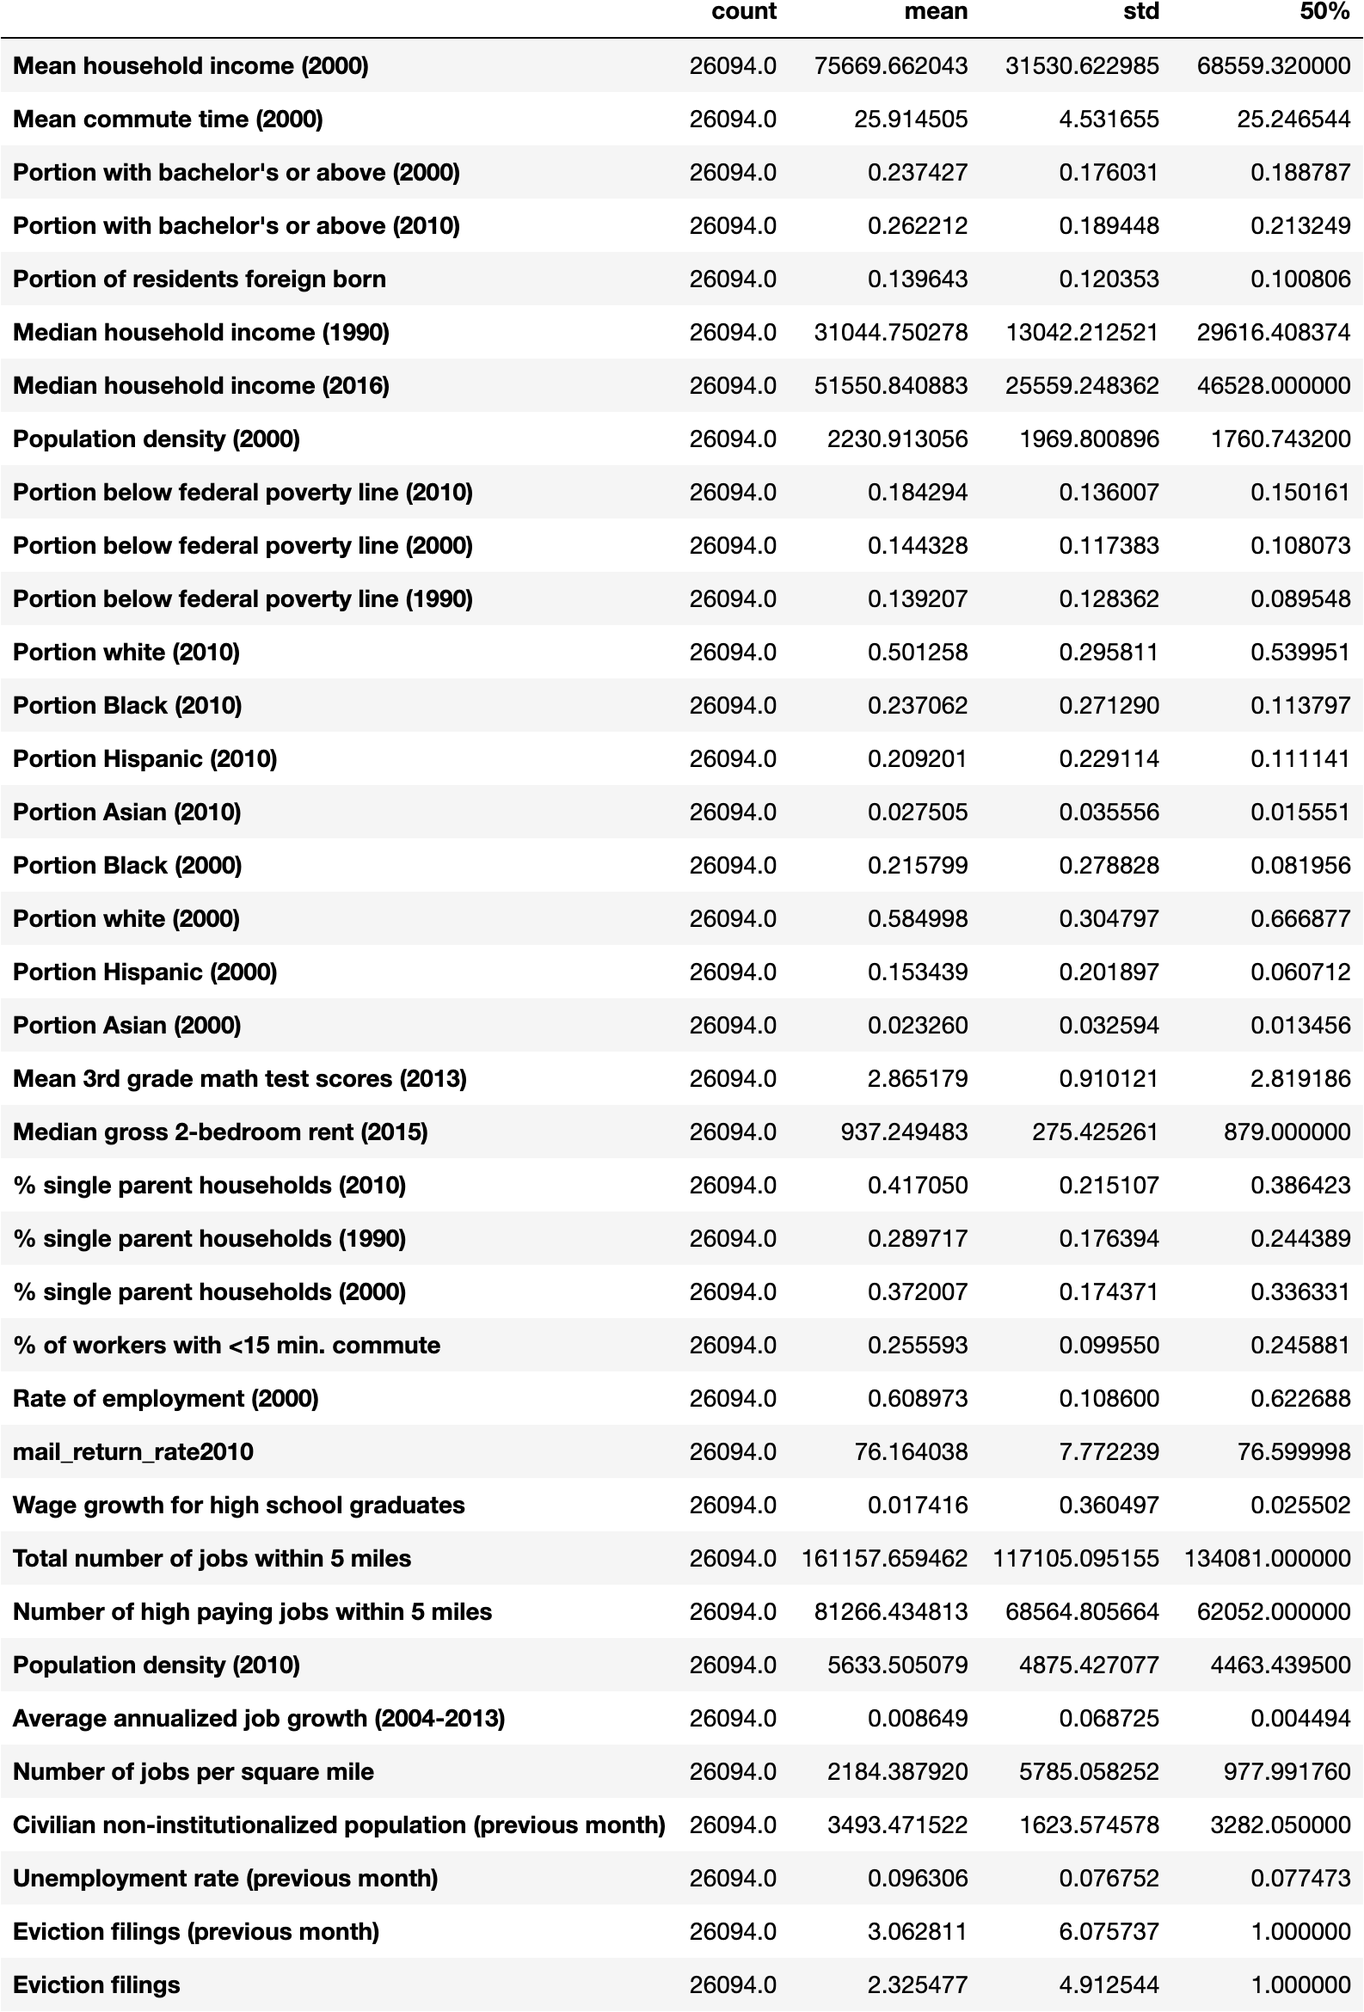
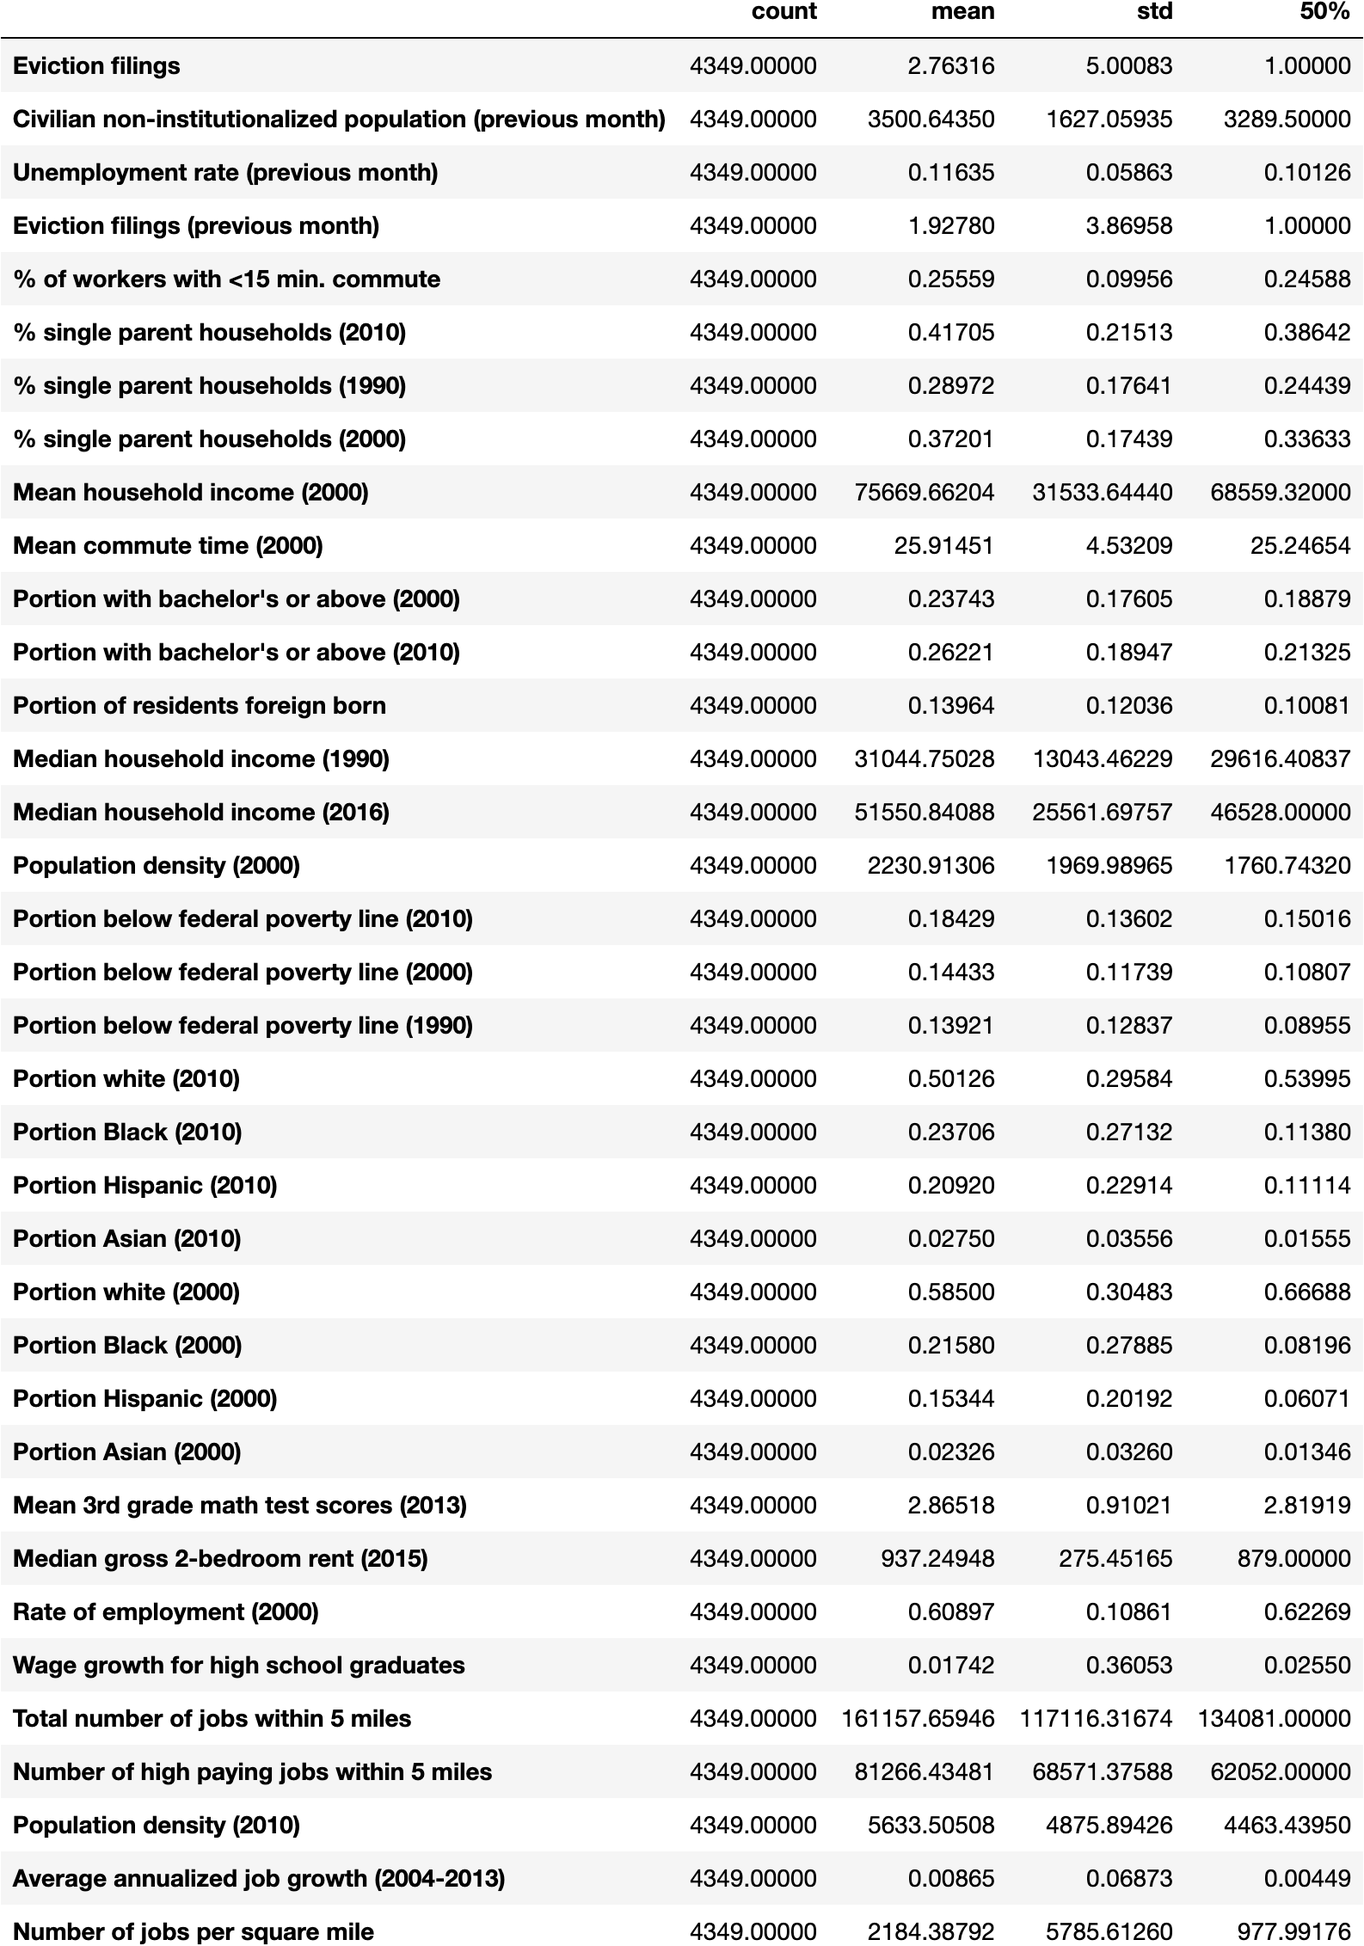
Made summ. stats more readable, added coefficient density plots

Changed region(s): [[0.0, 0.0, 0.9887, 1.0]]

diff --git a/code/fepredictionmodel.py b/code/fepredictionmodel.py
@@ -7,6 +7,7 @@ import pandas as pd
 from matplotlib import pyplot as plt
 from sklearn.linear_model import Ridge
 import dataframe_image as dfi
+from sklearn.metrics import r2_score
 
 """
 Runs fixed-effects regression models
@@ -18,7 +19,8 @@ class FEPredictionModel:
     Initialize a model.
     """
 
-    def __init__(self, datafile, graph_output, table_output, non_numeric_features, model_name):
+    def __init__(self, datafile, graph_output, table_output, non_numeric_features, model_name, float_format='{:.5f}'):
+        pd.options.display.float_format = float_format.format
         self.df = pd.read_csv(datafile)
         self.graph_output = graph_output
         self.table_output = table_output
@@ -30,6 +32,8 @@ class FEPredictionModel:
         self.y_test = None
         self.optimal_coefficients = None
         self.optimal_mse = None
+        self.optimal_r_squared = None
+        self.output_table = None
 
         self.non_numeric_features = non_numeric_features
         self.numeric_features = None
@@ -70,12 +74,13 @@ class FEPredictionModel:
     """
     Run fixed-effects ridge regression and produce summary statistics. 
     """
-    def run_ridge(self, fixed_effects_var, exclude_variables=None):
+
+    def run_ridge(self, fixed_effects_var, exclude_variables=None, include_dummies_in_table=False):
 
         # generate one dummy variable for each entity except for one
-        train_dummies = pd.get_dummies(self.x_train[fixed_effects_var], drop_first=True)
+        train_dummies = pd.get_dummies(self.x_train[fixed_effects_var], drop_first=True, prefix=fixed_effects_var, prefix_sep="_")
         self.x_train = pd.concat([self.x_train, train_dummies], axis=1)
-        test_dummies = pd.get_dummies(self.x_test[fixed_effects_var], drop_first=True)
+        test_dummies = pd.get_dummies(self.x_test[fixed_effects_var], drop_first=True, prefix=fixed_effects_var, prefix_sep="_")
         self.x_test = pd.concat([self.x_test, test_dummies], axis=1)
         self.fe_dummies = train_dummies.columns
 
@@ -92,13 +97,15 @@ class FEPredictionModel:
         alphas = np.linspace(0.01, 5, num=51)
         errors = []
         coefficients = []
+        r_squareds = []
         for alpha in alphas:
-            ridge = Ridge(alpha=alpha, fit_intercept=True, normalize=True, random_state=7)
+            ridge = Ridge(alpha=alpha, normalize=True, random_state=7)
             ridge.fit(self.x_train, self.y_train)
             predicted_y = ridge.predict(self.x_test)
             predicted_y = np.where(predicted_y < 0, 0, predicted_y)
             errors.append(np.mean((predicted_y - self.y_test) ** 2))
             coefficients.append(ridge.coef_)
+            r_squareds.append(r2_score(self.y_test, predicted_y))
 
         # plot MSE for different values of alpha
         figure1 = plt.figure()
@@ -108,19 +115,43 @@ class FEPredictionModel:
         plt.plot(alphas, errors, '.')
         figure1.savefig(os.path.join(self.graph_output, self.model_name + '_mse_plot.png'))
 
-        # store optimal coefficients and prediction error
-        self.optimal_mse = np.min(errors)
+        # store optimal coefficients, prediction error, R2
         self.optimal_coefficients = coefficients[np.argmin(errors)]
-        # self.optimal_coefficients = pd.DataFrame(self.optimal_coefficients, columns=self.x_train.columns)
+        self.optimal_mse = np.min(errors)
+        self.optimal_r_squared = r_squareds[np.argmin(errors)]
+        self.output_table = pd.DataFrame({"Variable/Metric": self.x_train.columns,
+                                          "Coefficient/Value": self.optimal_coefficients})
+
+        # produce pdf of coefficient values
+        figure = plt.figure()
+        self.output_table.loc[self.output_table["Variable/Metric"].isin(self.fe_dummies)]['Coefficient/Value'].plot.kde(
+            title="Distribution of coefficients on " + fixed_effects_var + " dummies")
+        plt.xlabel("Coefficient value")
+        plt.xlim(-3, 3)
+        figure.savefig(os.path.join(self.graph_output, self.model_name + "_coefficients_distribution.png"))
+
+        # drop rows corresponding to dummy variable coefficients
+        self.output_table = self.output_table.drop(self.output_table.loc[self.output_table['Variable/Metric'].isin(self.fe_dummies)].index)
+
+        # append MSE and R^2 to the output table
+        self.output_table = self.output_table.append({'Variable/Metric': "MSE",
+                                                      'Coefficient/Value': self.optimal_mse}, ignore_index=True)
+        self.output_table = self.output_table.append({'Variable/Metric': "R^2",
+                                                      'Coefficient/Value': self.optimal_r_squared}, ignore_index=True)
+
+        # save output table as PNG
+        self.output_table.set_index('Variable/Metric')
+        dfi.export(self.output_table, os.path.join(self.table_output, self.model_name + "_regression_output.png"))
 
     """
     Produces a KDE of the distribution of a certain variable.
     """
+
     def get_kde_plot(self, column, plot_title, xlabel):
         figure1 = plt.figure(1)
         # kde plot for training dataset
         pd.concat([self.x_train, self.y_train], axis=1)[column].plot.kde(title=plot_title,
-                                                                               label='Training dataset')
+                                                                         label='Training dataset')
         # kde plot for testing dataset
         pd.concat([self.x_test, self.y_test], axis=1)[column].plot.kde(label='Testing dataset')
         figure1.legend(loc='center')
@@ -131,18 +162,26 @@ class FEPredictionModel:
     """
     Produce a table of summary statistics for select variables in PNG format.
     """
+
     def get_summary_statistics(self, variables, labels):
-        rename_dict = {}  # create dictionary to rename the columns
-        for variable, label in zip(variables, labels):
-            rename_dict[variable] = label
-        training_statistics = pd.concat([self.x_train[self.numeric_features], self.y_train], axis=1).describe()
-        testing_statistics = pd.concat([self.x_test[self.numeric_features], self.y_test], axis=1).describe()
-        training_statistics = training_statistics.rename(columns=rename_dict)
-        testing_statistics = testing_statistics.rename(columns=rename_dict)
 
-        # change order of variables
-        training_statistics = training_statistics[labels]
-        training_statistics = testing_statistics[labels]
+        training_statistics = pd.concat([self.x_train[self.numeric_features], self.y_train], axis=1)[variables].describe()
+        testing_statistics = pd.concat([self.x_test[self.numeric_features], self.y_test], axis=1)[variables].describe()
 
-        dfi.export(training_statistics.transpose()[['count', 'mean', 'std', '50%']], os.path.join(self.table_output, 'train_summary_stats.png'))
-        dfi.export(testing_statistics.transpose()[['count', 'mean', 'std', '50%']], os.path.join(self.table_output, 'test_summary_stats.png'))
+        # transpose summary tables and add variable labels
+        training_summary = training_statistics.transpose()
+        testing_summary = testing_statistics.transpose()
+
+        print(training_summary.index)
+        print(labels)
+
+        training_summary['Label'] = pd.Series(labels, index=training_summary.index)
+        testing_summary['Label'] = pd.Series(labels, index=training_summary.index)
+
+
+        print(pd.Series(labels))
+        print(training_summary['Label'])
+        print(testing_summary['Label'])
+
+        dfi.export(training_summary[['Label', 'count', 'mean', 'std', '50%']], os.path.join(self.table_output, 'train_summary_stats.png'))
+        dfi.export(testing_summary[['Label', 'count', 'mean', 'std', '50%']], os.path.join(self.table_output, 'test_summary_stats.png'))

diff --git a/code/fepredictionmodel_test.py b/code/fepredictionmodel_test.py
@@ -7,7 +7,7 @@ from math import isclose
 path_to_data = "/Users/arjunshanmugam/Documents/GitHub/project1-arjun-shanmugam/cleaned_data/cleaned_dataset.csv"
 path_to_graph_outputs = "/Users/arjunshanmugam/Documents/GitHub/project1-arjun-shanmugam/output/model1/graphs"
 path_to_table_outputs = "/Users/arjunshanmugam/Documents/GitHub/project1-arjun-shanmugam/output/model1/tables"
-non_numeric_features = ['fips', 'month', 'cz', 'czname', 'county']
+non_numeric_features = ['tract', 'month', 'cz', 'czname', 'county']
 # model_1 = FEPredictionModel(path_to_data, path_to_graph_outputs, path_to_table_outputs, non_numeric_features, "Model 1")
 # model_1.split_train_test('filings', 'fips', 'month')
 # model_1.get_kde_plot('filings')
@@ -17,5 +17,81 @@ non_numeric_features = ['fips', 'month', 'cz', 'czname', 'county']
 path_to_graph_outputs = "/Users/arjunshanmugam/Documents/GitHub/project1-arjun-shanmugam/output/model2/graphs"
 path_to_table_outputs = "/Users/arjunshanmugam/Documents/GitHub/project1-arjun-shanmugam/output/model2/tables"
 model_2 = FEPredictionModel(path_to_data, path_to_graph_outputs, path_to_table_outputs, non_numeric_features, "Model 2")
-model_2.split_train_test('filings', 'fips', 'month')
-model_2.run_ridge('fips')
+model_2.split_train_test('filings', 'tract', 'month')
+labels = ['Eviction filings',
+          'CNIP (previous month)',
+          'Unemployment rate (previous month)',
+          'Eviction filings  (previous month)',
+          '% of workers with <15 min. commute',
+          '% single parent households (2010)',
+          '% single parent households (1990)',
+          '% single parent households (2000)',
+          'Mean household income (2000)',
+          'Mean commute time (2000)',
+          'Portion with bachelor\'s or above (2000)',
+          'Portion with bachelor\'s or above (2010)',
+          'Portion of residents foreign born',
+          'Median household income (1990)',
+          'Median household income (2016)',
+          'Population density (2000)',
+          'Portion below federal poverty line (2010)',
+          'Portion below federal poverty line (2000)',
+          'Portion below federal poverty line (1990)',
+          'Portion white (2010)',
+          'Portion Black (2010)',
+          'Portion Hispanic (2010)',
+          'Portion Asian (2010)',
+          'Portion white (2000)',
+          'Portion Black (2000)',
+          'Portion Hispanic (2000)',
+          'Portion Asian (2000)',
+          'Mean 3rd grade math test scores (2013)',
+          'Median gross 2-bedroom rent (2015)',
+          'Rate of employment (2000)',
+          'Wage growth for high school graduates',
+          'Total number of jobs within 5 miles',
+          'Number of high paying jobs within 5 miles',
+          'Population density (2010)',
+          'Average annualized job growth (2004-2013)',
+          'Number of jobs per square mile',
+          'Census return rate (2010)']
+variables = ['filings',
+             'L1_cnip',
+             'L1_unemployment_rate',
+             'L1_filings',
+             'traveltime15_2010',
+             'singleparent_share2010',
+             'singleparent_share1990',
+             'singleparent_share2000',
+             'hhinc_mean2000',
+             'mean_commutetime2000',
+             'frac_coll_plus2000',
+             'frac_coll_plus2010',
+             'foreign_share2010',
+             'med_hhinc1990',
+             'med_hhinc2016',
+             'popdensity2000',
+             'poor_share2010',
+             'poor_share2000',
+             'poor_share1990',
+             'share_white2010',
+             'share_black2010',
+             'share_hisp2010',
+             'share_asian2010',
+             'share_white2000',
+             'share_black2000',
+             'share_hisp2000',
+             'share_asian2000',
+             'gsmn_math_g3_2013',
+             'rent_twobed2015',
+             'emp2000',
+             'ln_wage_growth_hs_grad',
+             'jobs_total_5mi_2015',
+             'jobs_highpay_5mi_2015',
+             'popdensity2010',
+             'ann_avg_job_growth_2004_2013',
+             'job_density_2013',
+             'mail_return_rate2010']
+model_2.get_summary_statistics(variables=variables,
+                               labels=labels)
+model_2.run_ridge('county')

diff --git a/code/build_dataset.py b/code/build_dataset.py
@@ -14,8 +14,10 @@ path_to_final_dataset = "/Users/arjunshanmugam/Documents/GitHub/project1-arjun-s
 evictions_df = pd.read_csv(path_to_cleaned_evictions_data)
 unemployment_df = pd.read_csv(path_to_cleaned_unemployment_data)
 
-# join on county, month
-evictions_and_unemployment = evictions_df.merge(unemployment_df, how='inner', on=['fips', 'month'])
+# join on tract, month
+print(evictions_df.columns)
+print(unemployment_df.columns)
+evictions_and_unemployment = evictions_df.merge(unemployment_df, how='inner', on=['tract', 'month'])
 
 # pandas saves index columns from each individual dataset; drop them
 evictions_and_unemployment = evictions_and_unemployment.drop(columns=['Unnamed: 0_x', 'Unnamed: 0_y'])
@@ -24,7 +26,7 @@ evictions_and_unemployment = evictions_and_unemployment.drop(columns=['Unnamed: 
 oi_df = pd.read_csv("/Users/arjunshanmugam/Documents/GitHub/project1-arjun-shanmugam/cleaned_data/covariates.csv")
 merged_df = evictions_and_unemployment.merge(oi_df,
                                              how='inner',
-                                             on='fips')
+                                             on='tract')
 
 # pandas saves index columns from each individual dataset; drop them
 merged_df = merged_df.drop(columns='Unnamed: 0')
@@ -34,19 +36,19 @@ cols_to_lag = ['cnip', 'unemployment_rate', 'filings']
 for lag in range(1, 2):
     for col in cols_to_lag:
         lagged_col_name = "L" + str(lag) + "_" + col
-        merged_df[lagged_col_name] = merged_df.groupby('fips').shift(lag)[col]
+        merged_df[lagged_col_name] = merged_df.groupby('tract').shift(lag)[col]
 merged_df = merged_df.drop(columns=['cnip', 'unemployment_rate'])  # drop current month CNIP and unemployment rate
 
 # keep only observations which have non-missing values for both lags (obs. from March-August inclusive)
 merged_df = merged_df.drop(merged_df.loc[pd.to_datetime(merged_df['month']) < datetime(2020, 2, 1)].index)
 
 # save FIPS codes as strings so that their column titles are strings when we generate dummy variables later
-merged_df['fips'] = merged_df['fips'].astype(str)
+merged_df['tract'] = merged_df['tract'].astype(str)
 
 # drop rows with missing observations
 merged_df = merged_df.dropna()
 
 # generate column containing county
-merged_df['county'] = merged_df['fips'].str[0:5]
+merged_df['county'] = merged_df['tract'].str[0:5]
 
 merged_df.to_csv(path_to_final_dataset)

diff --git a/code/main.py b/code/main.py
@@ -13,15 +13,17 @@ import plotly.express as px
 merged_data = "/Users/arjunshanmugam/Documents/GitHub/project1-arjun-shanmugam/cleaned_data/cleaned_dataset.csv"
 model1_graph_output = "/Users/arjunshanmugam/Documents/GitHub/project1-arjun-shanmugam/output/model1/graphs"
 model1_tables_output = "/Users/arjunshanmugam/Documents/GitHub/project1-arjun-shanmugam/output/model1/tables"
+model2_graph_output = "/Users/arjunshanmugam/Documents/GitHub/project1-arjun-shanmugam/output/model2/graphs"
+model2_tables_output = "/Users/arjunshanmugam/Documents/GitHub/project1-arjun-shanmugam/output/model2/tables"
 
-# Model 1
+### Model 1
 model_1 = FEPredictionModel(datafile=merged_data,
                             graph_output=model1_graph_output,
                             table_output=model1_tables_output,
-                            non_numeric_features=['fips', 'month', 'cz', 'czname', 'county'],
+                            non_numeric_features=['tract', 'month', 'cz', 'czname', 'county'],
                             model_name="Model 1")
 model_1.split_train_test(y_col='filings',
-                         entity_var='fips',
+                         entity_var='tract',
                          time_var='month')
 
 # Figure 1: Map of observed counties
@@ -120,8 +122,4 @@ variables = ['filings',
              'job_density_2013']
 model_1.get_summary_statistics(variables=variables,
                                labels=labels)
-
-# For the first model, we exclude census tract level covariates
-print(model_1.x_train.columns)
-model_1.run_ridge('fips', exclude_variables=variables[4:])
-print(model_1.optimal_mse)
+model_1.run_ridge('tract')

diff --git a/code/clean_covariates.py b/code/clean_covariates.py
@@ -12,10 +12,10 @@ oi_df = pd.read_csv(path_to_oi_data)
 oi_df['state'] = oi_df['state'].astype(int).astype(str).str.zfill(2)
 oi_df['county'] = oi_df['county'].astype(int).astype(str).str.zfill(3)
 oi_df['tract'] = oi_df['tract'].astype(str).str.zfill(6)
-oi_df['fips'] = oi_df['state'] + oi_df['county'] + oi_df['tract']
+oi_df['tract'] = oi_df['state'] + oi_df['county'] + oi_df['tract']
 
 # drop unneeded columns
-oi_df = oi_df.drop(columns=['state', 'county', 'tract', 'mail_return_rate2010'])
+oi_df = oi_df.drop(columns=['state', 'county'])
 
 # save locally
 oi_df.to_csv("/Users/arjunshanmugam/Documents/GitHub/project1-arjun-shanmugam/cleaned_data/covariates.csv")

diff --git a/code/clean_evictions_data.py b/code/clean_evictions_data.py
@@ -16,7 +16,7 @@ evictions_df = evictions_df.drop(evictions_df.loc[evictions_df['type'] == "Zip C
 evictions_df = evictions_df.drop(evictions_df.loc[evictions_df['GEOID'] == "sealed"].index)
 
 # GEOID is simply FIPS code for rows corresponding to census tracts
-evictions_df = evictions_df.rename(columns={"GEOID": "fips"})
+evictions_df = evictions_df.rename(columns={"GEOID": "tract"})
 
 # separate month into month and year
 evictions_df['month'] = pd.to_datetime(evictions_df['month'])

diff --git a/code/clean_unemployment_data.py b/code/clean_unemployment_data.py
@@ -37,5 +37,9 @@ unemployment_df = unemployment_df.drop(columns=['employed_2020', 'laborforce_202
 # rename CNIP colum
 unemployment_df = unemployment_df.rename(columns={'cnip_2020': 'cnip'})
 
+# rename fips to tract
+unemployment_df = unemployment_df.rename(columns={'fips': 'tract'})
+print(unemployment_df.columns)
+
 # save data
 unemployment_df.to_csv(path_to_clean_data)
